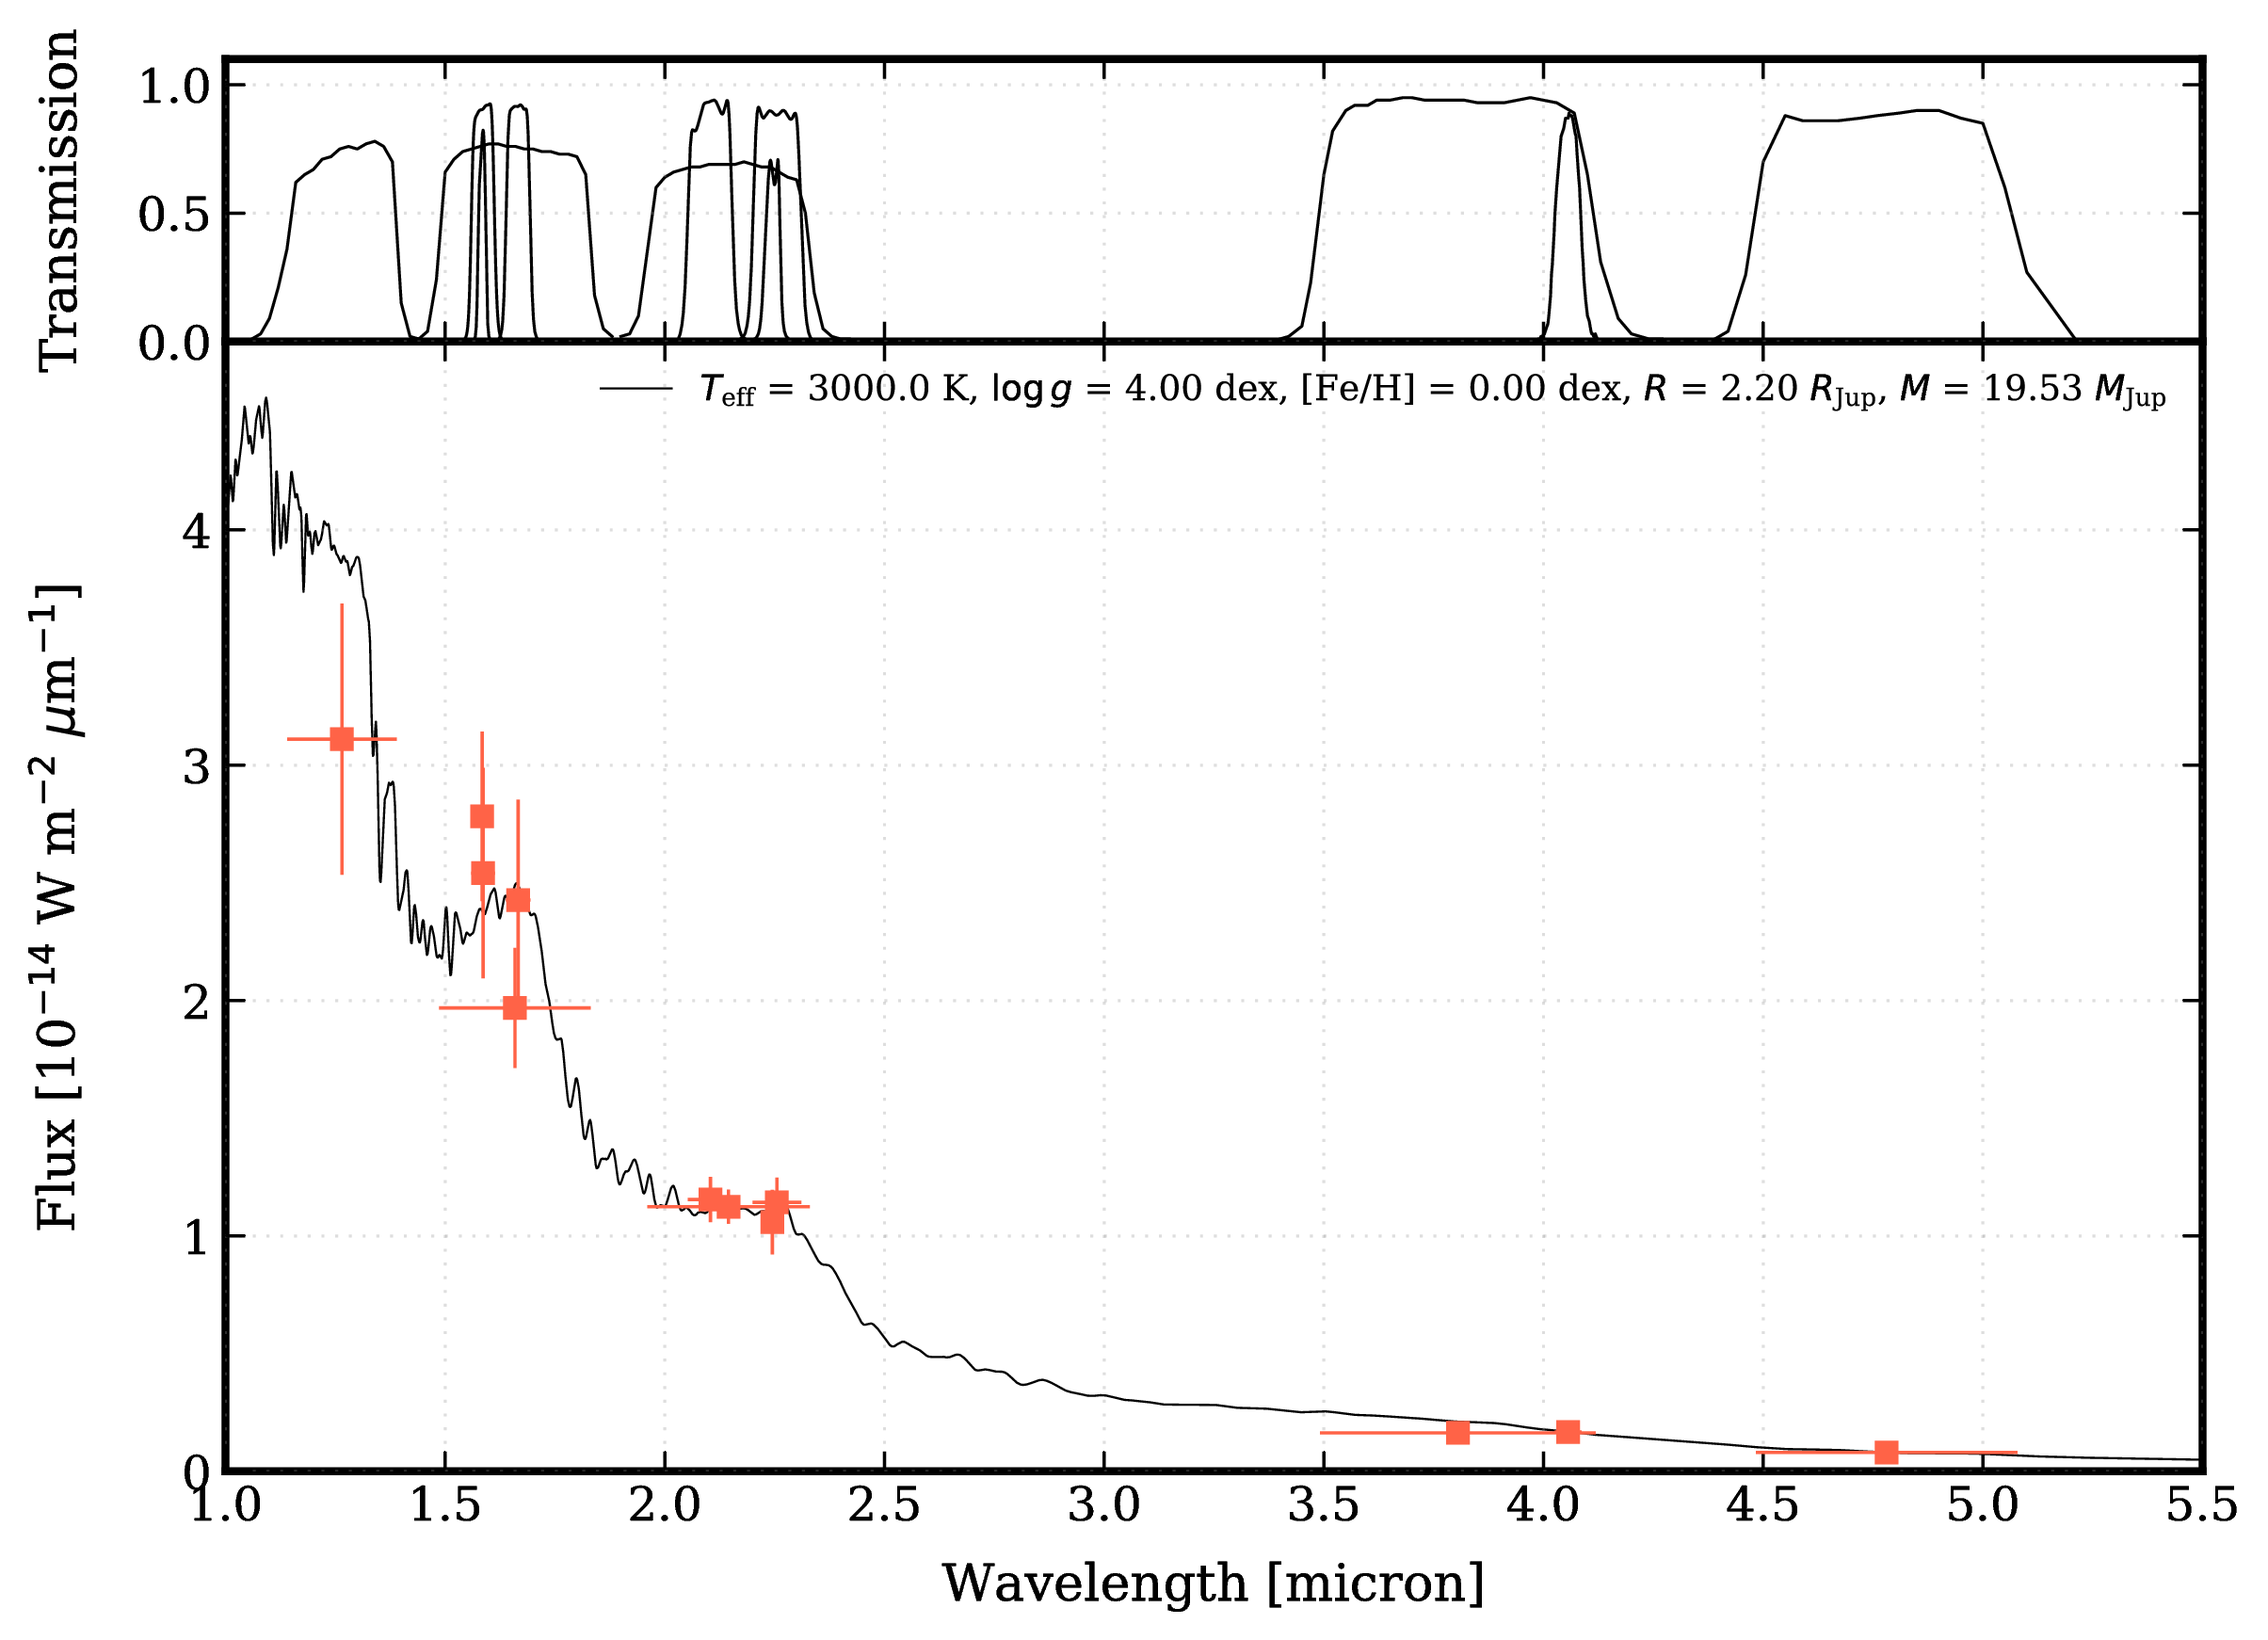
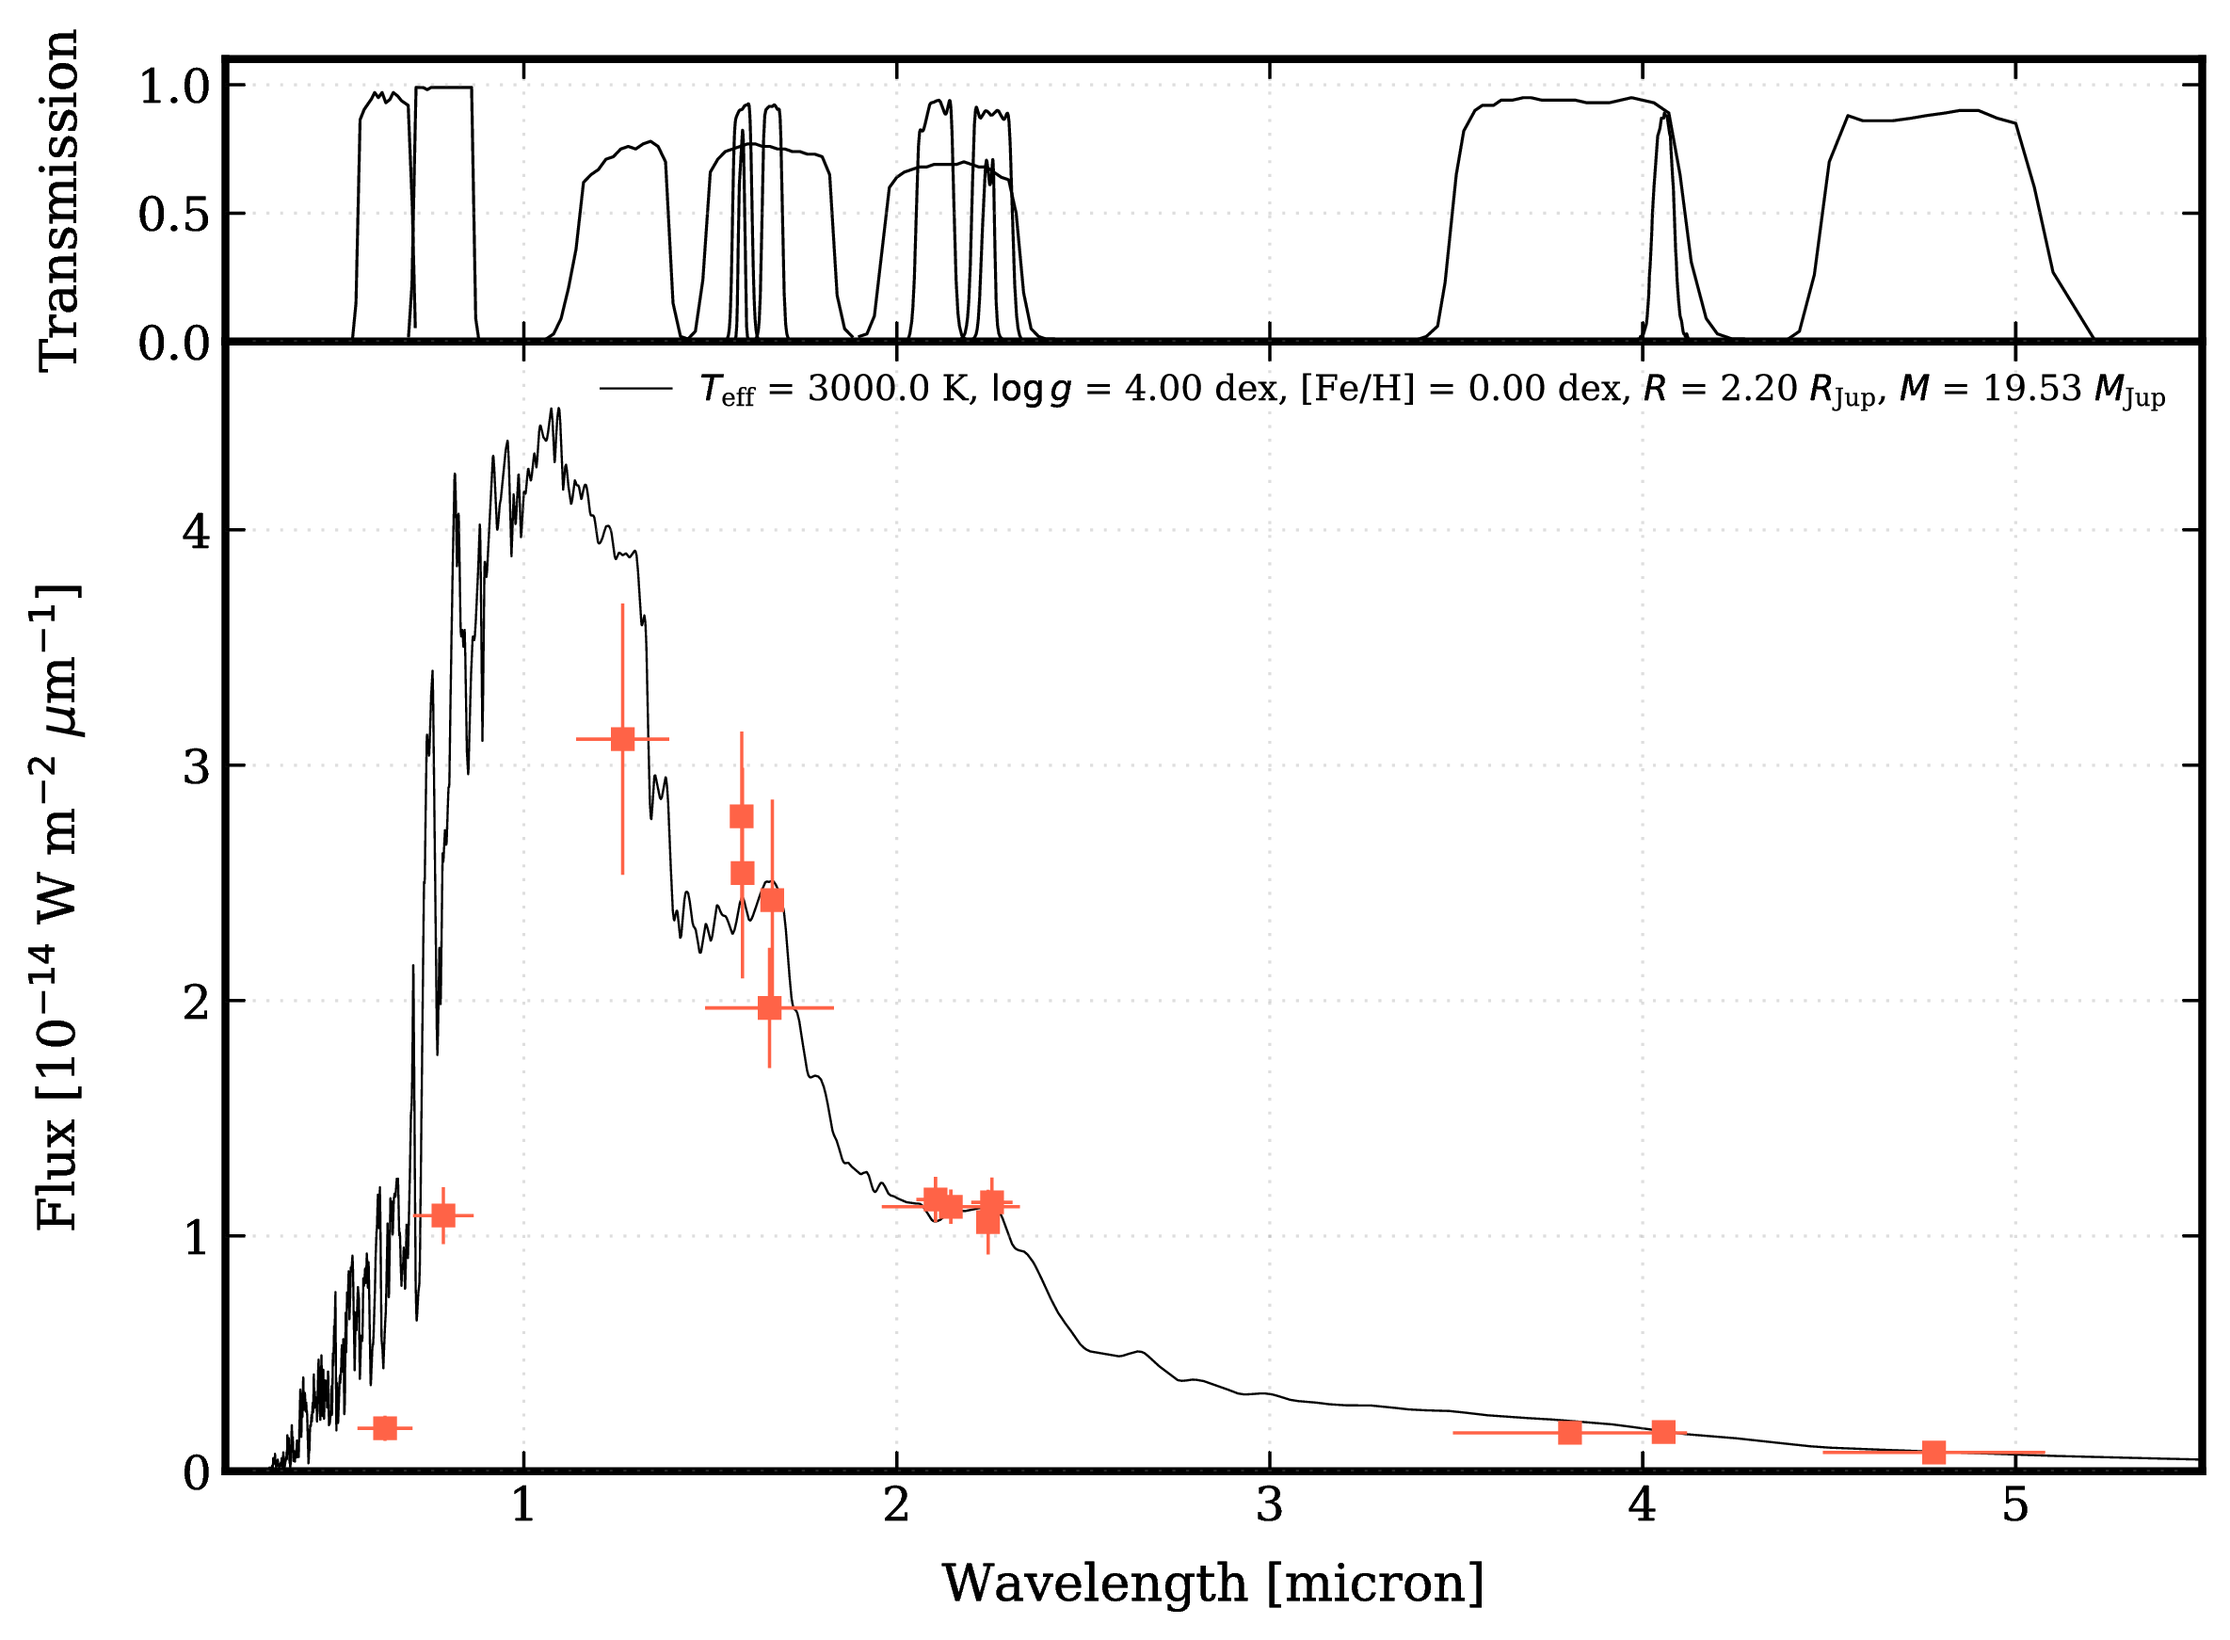
documentation example

diff --git a/docs/running.rst b/docs/running.rst
@@ -17,7 +17,7 @@ Here you find a first example to get an impression of what a typical workflow wi
 
    # add the AMES-Dusty atmospheric models
    database.add_model(model='ames-dusty',
-                      wavelength=(0.5, 6.),
+                      wavelength=(0.1, 6.),
                       teff=(2500., 3500.),
                       specres=1000.)
 
@@ -26,7 +26,7 @@ Here you find a first example to get an impression of what a typical workflow wi
 
    # create an object for reading model spectra
    readmodel = species.ReadModel(model='ames-dusty',
-                                 wavelength=(0.5, 6.0))
+                                 wavelength=(0.1, 6.0))
 
    # interpolate the grid of spectra
    modelbox = readmodel.get_model(model_par={'teff': 3000.,
@@ -44,7 +44,7 @@ Here you find a first example to get an impression of what a typical workflow wi
                          filters=objectbox.filter,
                          colors=('black', ('tomato', )),
                          offset=(-0.08, -0.07),
-                         xlim=(1., 5.5),
+                         xlim=(0.2, 5.5),
                          ylim=(0., 4.8e-14),
                          legend='upper right',
                          output='spectrum.pdf')
